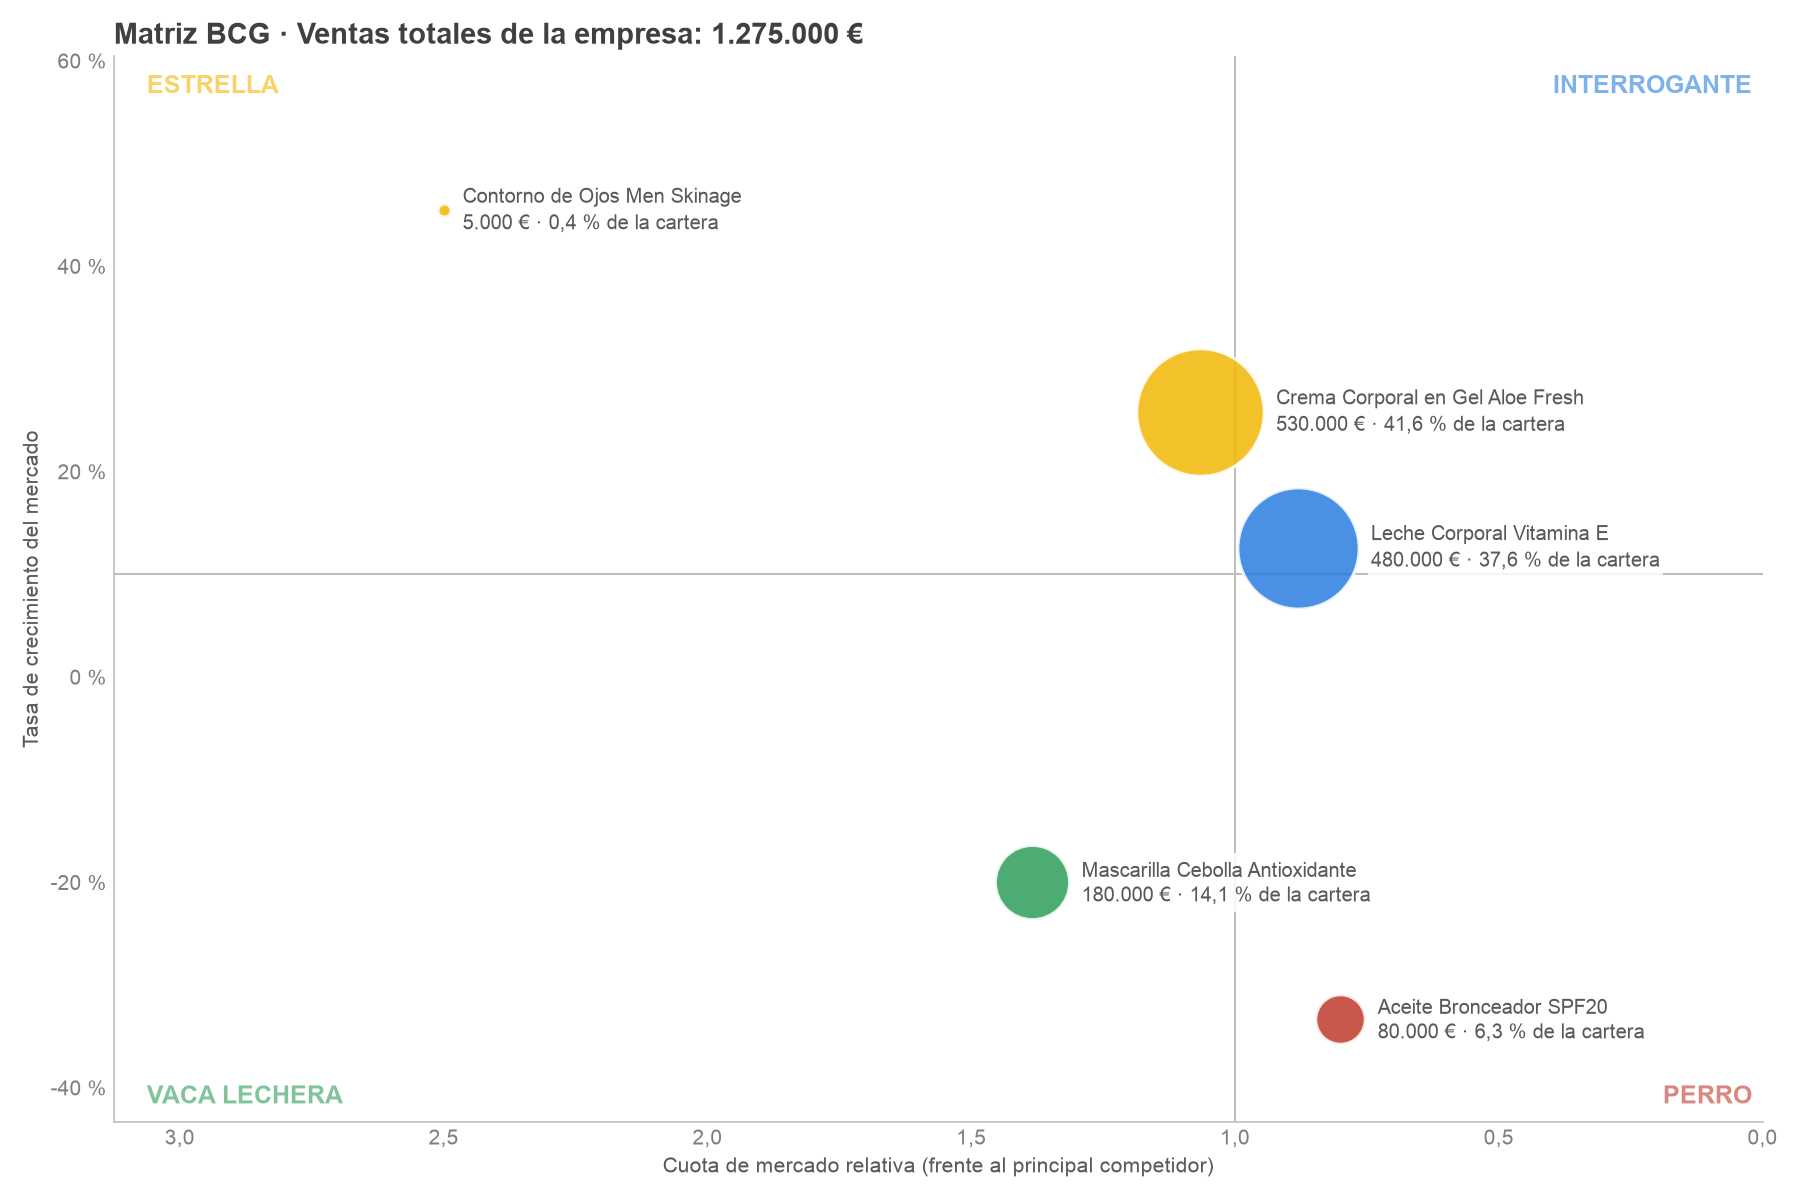
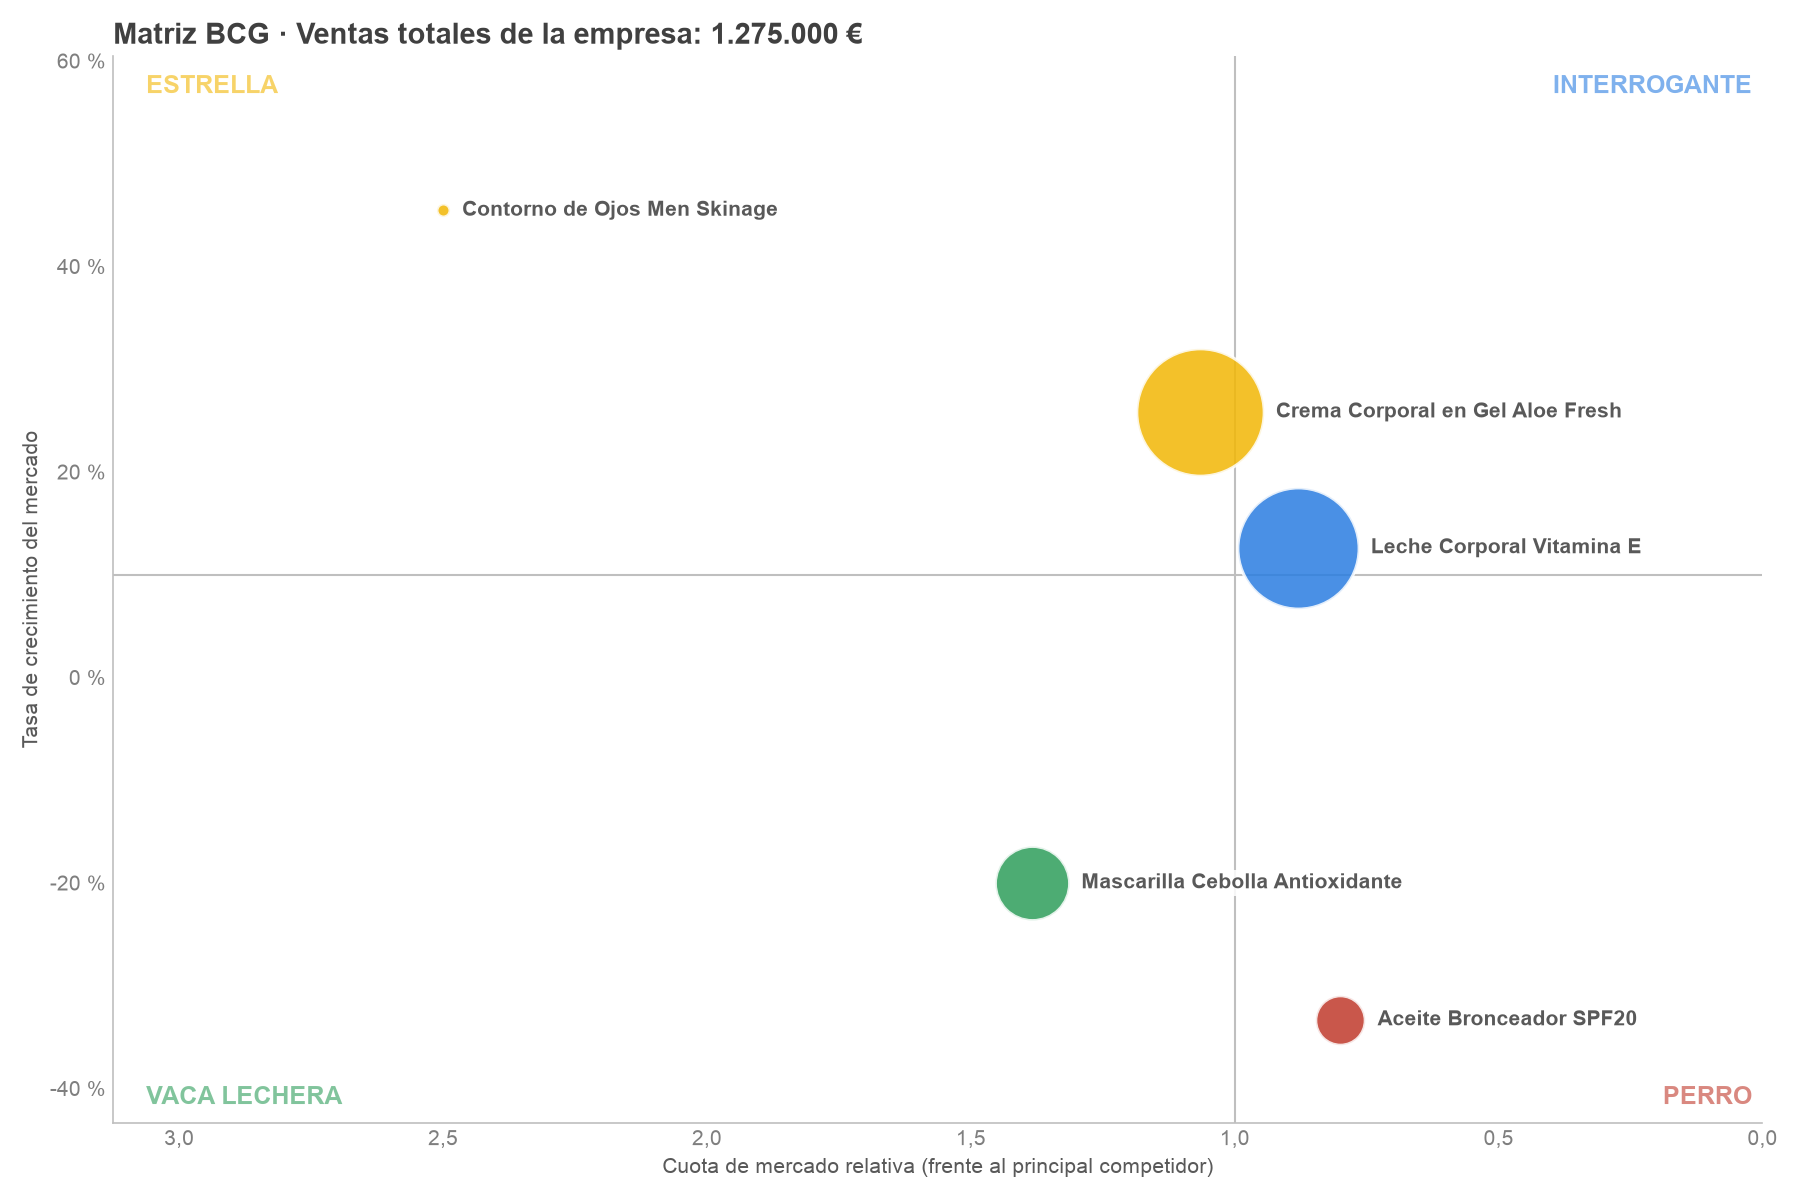
Mostrar solo el nombre en cada círculo y los datos al pasar el ratón
Las ventas y la proporción de la cartera aparecen en un cuadro que se
coloca donde no tape ningún nombre. En Mac el gráfico se abre en una
ventana propia para que el hover funcione también desde PyCharm.

diff --git a/verificar_matriz_bcg.py b/verificar_matriz_bcg.py
@@ -5,14 +5,26 @@
   de la cartera y la posición en la matriz, y las compara con las fórmulas del
   Excel (si el archivo se ha abierto y guardado en Excel/Numbers).
 - Dibuja la matriz con círculos proporcionales a la proporción de la cartera.
+  Cada círculo lleva el nombre del producto; sus ventas y su proporción en la
+  cartera aparecen al pasar el ratón por encima (en la ventana del gráfico).
 Todos los números se muestran en formato europeo (1.275.000 y coma decimal).
 """
 
+import os
+import sys
 from pathlib import Path
+
+import matplotlib
+
+# PyCharm muestra los gráficos como imagen fija; en Mac abrimos una ventana
+# real para que funcione el hover sobre los círculos.
+if sys.platform == "darwin" and os.environ.get("MPLBACKEND", "").lower() not in ("agg", "pdf", "svg"):
+    matplotlib.use("macosx")
 
 import matplotlib.pyplot as plt
 import openpyxl
 import pandas as pd
+from matplotlib.transforms import Bbox
 
 EXCEL = Path("/Users/karlasolarte/Andalucia FP/matrizbcgdatos.xlsx")
 SALIDA = Path(__file__).with_name("matriz_bcg_verificada.png")
@@ -119,17 +131,19 @@ def dibujar(df, total):
 
     # Círculos: el ÁREA es proporcional a la proporción en la cartera
     escala = 9000  # puntos² para el 100 % de la cartera
+    circulos, nombres = [], []
     for _, f in df.iterrows():
         area = max(f["proporcion"] * escala, 40)  # mínimo para que el más pequeño se vea
         radio = area ** 0.5 / 2
-        ax.scatter(f["cuota"], f["crecimiento"], s=area, color=COLORES[f["posicion"]],
-                   alpha=0.85, edgecolors="white", linewidths=1.5, zorder=2)
-        ax.annotate(f"{f['producto']}\n"
-                    f"{miles(f['ventas_empresa'])} € · {porcentaje(f['proporcion'])} de la cartera",
-                    (f["cuota"], f["crecimiento"]), textcoords="offset points",
-                    xytext=(radio + 6, 0), ha="left", va="center", fontsize=9.5,
-                    color="#595959", linespacing=1.4, zorder=3,
-                    bbox=dict(facecolor="white", edgecolor="none", alpha=0.85, pad=1.5))
+        circulo = ax.scatter(f["cuota"], f["crecimiento"], s=area, color=COLORES[f["posicion"]],
+                             alpha=0.85, edgecolors="white", linewidths=1.5, zorder=2)
+        # Solo el nombre; los datos se ven al pasar el ratón
+        nombre = ax.annotate(f["producto"], (f["cuota"], f["crecimiento"]), textcoords="offset points",
+                             xytext=(radio + 6, 0), ha="left", va="center", fontsize=10,
+                             weight="bold", color="#595959", zorder=3,
+                             bbox=dict(facecolor="white", edgecolor="none", alpha=0.85, pad=1.5))
+        circulos.append((circulo, f, radio))
+        nombres.append(nombre)
 
     ax.set_xlim(x_max, 0)
     ax.set_ylim(y_min, y_max)
@@ -148,7 +162,87 @@ def dibujar(df, total):
     fig.tight_layout()
     fig.savefig(SALIDA, dpi=150)
     print(f"\nGráfico guardado en: {SALIDA}")
+
+    activar_hover(fig, ax, circulos, nombres)
     plt.show()
+
+
+def activar_hover(fig, ax, circulos, nombres):
+    """Al pasar el ratón por un círculo muestra sus ventas y su proporción en la
+    cartera, en la posición libre más cercana que no tape ningún nombre."""
+    tamano_letra = 10
+    caja = ax.annotate("", xy=(0, 0), xycoords="figure pixels", ha="left", va="bottom",
+                       fontsize=tamano_letra, color="#595959", linespacing=1.5, zorder=10,
+                       annotation_clip=False,
+                       bbox=dict(boxstyle="round,pad=0.6", facecolor="white", edgecolor="#BFBFBF"))
+    caja.set_visible(False)
+
+    def solape(a, b):
+        return (max(0, min(a.x1, b.x1) - max(a.x0, b.x0)) *
+                max(0, min(a.y1, b.y1) - max(a.y0, b.y0)))
+
+    def al_mover(evento):
+        tocados = []
+        if evento.inaxes is ax:
+            tocados = [(c, f, r) for c, f, r in circulos if c.contains(evento)[0]]
+        if not tocados:
+            if caja.get_visible():
+                caja.set_visible(False)
+                fig.canvas.draw_idle()
+            return
+
+        # Si dos círculos se solapan, el más cercano al ratón
+        def distancia(t):
+            x, y = ax.transData.transform(t[0].get_offsets()[0])
+            return (x - evento.x) ** 2 + (y - evento.y) ** 2
+        circulo, f, radio_pt = min(tocados, key=distancia)
+
+        caja.set_text(f"Ventas: {miles(f['ventas_empresa'])} €\n"
+                      f"Proporción de la cartera: {porcentaje(f['proporcion'])}")
+        caja.get_bbox_patch().set_edgecolor(COLORES[f["posicion"]])
+        caja.set_visible(True)  # oculta, matplotlib la mediría con tamaño cero
+
+        # Medidas en píxeles de pantalla
+        render = fig.canvas.get_renderer()
+        px = fig.dpi / 72
+        relleno = 0.6 * tamano_letra * px
+        texto = caja.get_window_extent(render)
+        w, h = texto.width + 2 * relleno, texto.height + 2 * relleno
+        cx, cy = ax.transData.transform((f["cuota"], f["crecimiento"]))
+        r, sep = radio_pt * px, 8 * px
+        zona = ax.get_window_extent(render)
+        textos = [n.get_window_extent(render) for n in nombres]
+        mi_nombre = textos[[t[1]["producto"] for t in circulos].index(f["producto"])]
+
+        # Posiciones candidatas (esquina inferior izquierda), en orden de preferencia
+        candidatas = [
+            (cx - r - sep - w, cy - h / 2),        # a la izquierda del círculo
+            (cx - w / 2, cy + r + sep),            # encima
+            (cx - w / 2, cy - r - sep - h),        # debajo
+            (cx - r - sep - w, cy + r + sep),      # arriba a la izquierda
+            (cx - r - sep - w, cy - r - sep - h),  # abajo a la izquierda
+            (mi_nombre.x1 + sep, cy - h / 2),      # a la derecha del nombre
+        ]
+        mejor = None
+        for orden, (x0, y0) in enumerate(candidatas):
+            x0 = min(max(x0, zona.x0), zona.x1 - w)
+            y0 = min(max(y0, zona.y0), zona.y1 - h)
+            rect = Bbox.from_bounds(x0, y0, w, h)
+            coste = orden + sum(solape(rect, t) for t in textos) * 100
+            for c, _, rr in circulos:
+                bx, by = ax.transData.transform(c.get_offsets()[0])
+                rr *= px
+                coste += solape(rect, Bbox.from_extents(bx - rr, by - rr, bx + rr, by + rr))
+            if mejor is None or coste < mejor[0]:
+                mejor = (coste, x0, y0)
+
+        _, x0, y0 = mejor
+        caja.xy = (x0 + relleno, y0 + relleno)
+        caja.set_position(caja.xy)
+        caja.set_visible(True)
+        fig.canvas.draw_idle()
+
+    fig.canvas.mpl_connect("motion_notify_event", al_mover)
 
 
 def main():
